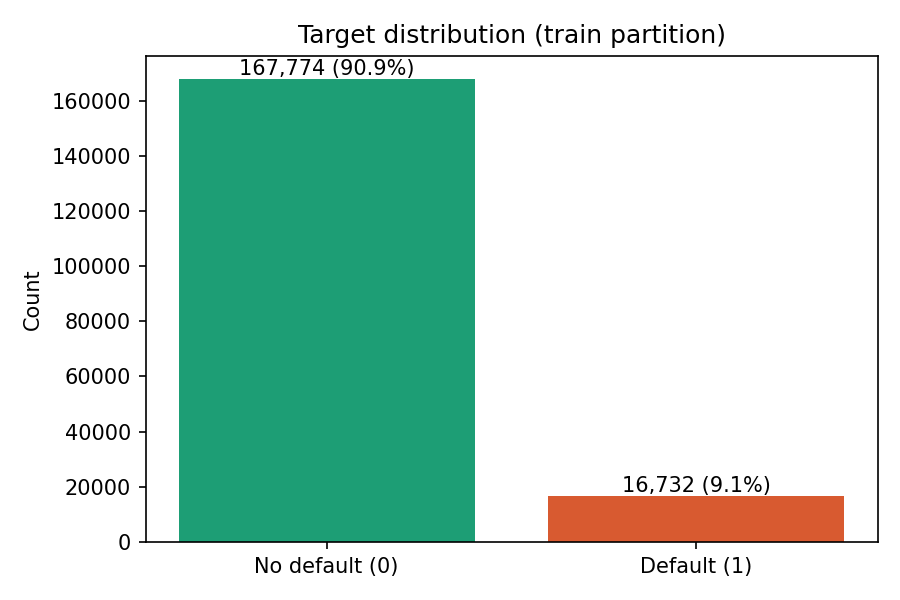
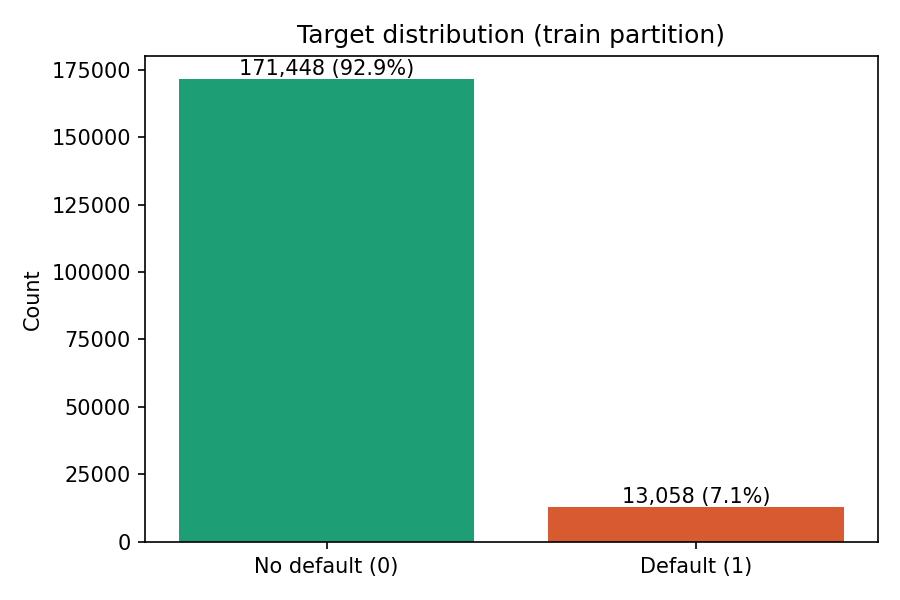
corrected new to old workflow

diff --git a/src/data_pipeline.py b/src/data_pipeline.py
@@ -1,4 +1,4 @@
-"""Module 1 â€” Data Pipeline.
+"""Module 1 — Data Pipeline.
 
 This module handles:
 - Data loading
@@ -107,7 +107,7 @@ def enforce_schema(df: pd.DataFrame, schema: dict[str, str]) -> pd.DataFrame:
 
 
 # ================================
-# TRAP D â€” MISSING POLICY FUNCTIONS
+# TRAP D — MISSING POLICY FUNCTIONS
 # ================================
 
 def fit_missing_policy(train_df: pd.DataFrame):
@@ -164,7 +164,7 @@ def apply_missing_policy(
 # ================================
 
 # ordered holdout using Home Credit recency proxies;
-# not true calendar-time validation
+# oldest rows first, newest rows last; not true calendar-time validation
 def proxy_recency_sort(app_df: pd.DataFrame) -> pd.DataFrame:
     tmp = app_df.copy()
 
@@ -177,7 +177,7 @@ def proxy_recency_sort(app_df: pd.DataFrame) -> pd.DataFrame:
 
     tmp = tmp.sort_values(
         ["__RECENCY_1", "__RECENCY_2", "SK_ID_CURR"],
-        ascending=[True, True, True]
+        ascending=[False, False, True]
     )
 
     tmp = tmp.drop(columns=["__RECENCY_1", "__RECENCY_2"])
@@ -323,7 +323,7 @@ if __name__ == "__main__":
     app_train = enforce_schema(app_train, TRAIN_SCHEMA)
 
     # ================================
-    # TRAP A â€” DAYS_EMPLOYED FIX
+    # TRAP A — DAYS_EMPLOYED FIX
     # ================================
     app_train["DAYS_EMPLOYED_ANOM"] = (
         app_train["DAYS_EMPLOYED"] == 365243
@@ -332,7 +332,7 @@ if __name__ == "__main__":
     app_train["DAYS_EMPLOYED"] = app_train["DAYS_EMPLOYED"].replace(365243, np.nan)
 
     # ================================
-    # TRAP B â€” PREV_APP FIX
+    # TRAP B — PREV_APP FIX
     # ================================
     for col in PREV_SENTINEL_DAY_COLS:
         if col in prev_app.columns:
@@ -340,20 +340,20 @@ if __name__ == "__main__":
             prev_app[col] = prev_app[col].replace(365243, np.nan)
 
     # ================================
-    # TRAP E â€” SCHEMA ASSERTION
+    # TRAP E — SCHEMA ASSERTION
     # ================================
     assert app_train["SK_ID_CURR"].dtype == np.int64, \
         "SK_ID_CURR dtype enforcement failed"
 
     # ================================
-    # STAGE 3 â€” SORT + SPLIT
+    # STAGE 3 — SORT + SPLIT
     # ================================
     app_sorted = proxy_recency_sort(app_train)
 
     train, val_model, val_policy, test = ordered_split_60_10_10_20(app_sorted)
 
     # ================================
-    # TRAP C â€” INCOME CAP
+    # TRAP C — INCOME CAP
     # ================================
     income_cap = train["AMT_INCOME_TOTAL"].quantile(0.99)
 
@@ -405,7 +405,7 @@ if __name__ == "__main__":
     assert abs(val_dist[0] - 0.5) < 0.05
     
     # ================================
-    # STAGE 4 â€” DIRECTORY SETUP
+    # STAGE 4 — DIRECTORY SETUP
     # ================================
 
     DATA_PROCESSED_DIR = os.environ.get(
@@ -495,7 +495,7 @@ if __name__ == "__main__":
     print("\nAll serialization checks passed.")
     
     # ================================
-    # STAGE 5 â€” EDA DIRECTORY
+    # STAGE 5 — EDA DIRECTORY
     # ================================
 
     EDA_PLOTS_DIR = os.environ.get(
@@ -504,7 +504,7 @@ if __name__ == "__main__":
 
     os.makedirs(EDA_PLOTS_DIR, exist_ok=True)
     
-    # Plot 1 â€” Target Distribution
+    # Plot 1 — Target Distribution
     
     fig, ax = plt.subplots(figsize=(6, 4))
     counts = train["TARGET"].value_counts().sort_index()
@@ -526,7 +526,7 @@ if __name__ == "__main__":
     plt.savefig(EDA_PLOTS_DIR + "target_distribution.png", dpi=150)
     plt.close()
     
-    # Plot 2 â€” Missing Heatmap
+    # Plot 2 — Missing Heatmap
     
     miss_rate = app_train.isna().mean().sort_values(ascending=False)
     miss_top = miss_rate[miss_rate > 0].head(40)
@@ -543,7 +543,7 @@ if __name__ == "__main__":
         cbar_kws={"label": "Missing rate"}
     )
 
-    ax.set_title("Missing value rates â€” application_train (top 40)")
+    ax.set_title("Missing value rates — application_train (top 40)")
     ax.set_xlabel("Column")
     plt.xticks(rotation=90, fontsize=7)
 
@@ -551,7 +551,7 @@ if __name__ == "__main__":
     plt.savefig(EDA_PLOTS_DIR + "missing_value_heatmap.png", dpi=150)
     plt.close()
     
-    #Plot 3 â€” Correlation
+    #Plot 3 — Correlation
     cols = ["EXT_SOURCE_1", "EXT_SOURCE_2", "EXT_SOURCE_3", "TARGET"]
     sub = train[cols].dropna()
     corr = sub.corr()
@@ -574,7 +574,7 @@ if __name__ == "__main__":
     plt.savefig(EDA_PLOTS_DIR + "ext_source_correlation.png", dpi=150)
     plt.close()
     
-    #Plot 4 â€” DAYS_EMPLOYED anomaly
+    #Plot 4 — DAYS_EMPLOYED anomaly
     fig, axes = plt.subplots(1, 2, figsize=(10, 4))
     raw_vals = app_train["DAYS_EMPLOYED"].copy()
     raw_vals_with_sentinel = raw_vals.copy()
@@ -590,7 +590,7 @@ if __name__ == "__main__":
         edgecolor="none"
     )
 
-    axes[0].set_title("DAYS_EMPLOYED â€” with sentinel (365243)")
+    axes[0].set_title("DAYS_EMPLOYED — with sentinel (365243)")
 
     axes[1].hist(
         app_train["DAYS_EMPLOYED"].dropna(),
@@ -599,7 +599,7 @@ if __name__ == "__main__":
         edgecolor="none"
     )
 
-    axes[1].set_title("DAYS_EMPLOYED â€” after Trap A fix")
+    axes[1].set_title("DAYS_EMPLOYED — after Trap A fix")
 
     for ax in axes:
         ax.set_xlabel("Value")
@@ -611,7 +611,7 @@ if __name__ == "__main__":
     plt.savefig(EDA_PLOTS_DIR + "days_employed_anomaly.png", dpi=150)
     plt.close()
     
-    #Plot 5 â€” Income Outliers
+    #Plot 5 — Income Outliers
     
     fig, axes = plt.subplots(1, 2, figsize=(10, 4))
     axes[0].hist(
@@ -621,7 +621,7 @@ if __name__ == "__main__":
         edgecolor="none"
     )
 
-    axes[0].set_title("AMT_INCOME_TOTAL â€” raw (clipped at 2M)")
+    axes[0].set_title("AMT_INCOME_TOTAL — raw (clipped at 2M)")
 
     axes[1].hist(
         train["AMT_INCOME_TOTAL_CAPPED"].dropna(),
@@ -639,7 +639,7 @@ if __name__ == "__main__":
     )
 
     axes[1].legend(fontsize=9)
-    axes[1].set_title("AMT_INCOME_TOTAL â€” after Trap C cap")
+    axes[1].set_title("AMT_INCOME_TOTAL — after Trap C cap")
 
     for ax in axes:
         ax.set_xlabel("Value")
@@ -684,4 +684,5 @@ if __name__ == "__main__":
         json.dump(report, f, indent=2)
 
     print("data_quality_report.json saved")
+
 

diff --git a/tests/test_module1_split_regime.py b/tests/test_module1_split_regime.py
@@ -1,0 +1,72 @@
+import pandas as pd
+import pytest
+
+from src.data_pipeline import ordered_split_60_10_10_20, proxy_recency_sort
+from src.runtime_verification import validate_processed_splits
+
+
+def _make_split_frame(sk_id: int, days_id_publish: float, days_registration: float) -> pd.DataFrame:
+    return pd.DataFrame(
+        {
+            "SK_ID_CURR": [sk_id],
+            "TARGET": [0],
+            "DAYS_ID_PUBLISH": [days_id_publish],
+            "DAYS_REGISTRATION": [days_registration],
+            "DAYS_EMPLOYED_ANOM": [0],
+        }
+    )
+
+
+def test_proxy_recency_sort_orders_oldest_rows_first_with_stable_tie_breaks():
+    df = pd.DataFrame(
+        {
+            "SK_ID_CURR": [30, 10, 20, 40],
+            "DAYS_ID_PUBLISH": [-100.0, -400.0, -400.0, -200.0],
+            "DAYS_REGISTRATION": [-150.0, -450.0, -300.0, -250.0],
+        }
+    )
+
+    result = proxy_recency_sort(df)
+
+    assert result["SK_ID_CURR"].tolist() == [10, 20, 40, 30]
+
+
+def test_ordered_split_and_verifier_enforce_oldest_to_newest_regime():
+    ordered = pd.concat(
+        [
+            _make_split_frame(100001, -5000.0, -6000.0),
+            _make_split_frame(100002, -4000.0, -5000.0),
+            _make_split_frame(100003, -3000.0, -4000.0),
+            _make_split_frame(100004, -2000.0, -3000.0),
+            _make_split_frame(100005, -1000.0, -2000.0),
+            _make_split_frame(100006, -500.0, -1000.0),
+            _make_split_frame(100007, -400.0, -900.0),
+            _make_split_frame(100008, -300.0, -800.0),
+            _make_split_frame(100009, -200.0, -700.0),
+            _make_split_frame(100010, -100.0, -600.0),
+        ],
+        ignore_index=True,
+    )
+
+    train, val_model, val_policy, test = ordered_split_60_10_10_20(ordered)
+    verification = validate_processed_splits(
+        {
+            "train": train,
+            "val_model": val_model,
+            "val_policy": val_policy,
+            "test": test,
+        }
+    )
+
+    assert verification["split_summary"]["train"]["mean_abs_days_id_publish"] >= verification["split_summary"]["val_model"]["mean_abs_days_id_publish"]
+    assert verification["split_summary"]["val_model"]["mean_abs_days_id_publish"] >= verification["split_summary"]["val_policy"]["mean_abs_days_id_publish"]
+    assert verification["split_summary"]["val_policy"]["mean_abs_days_id_publish"] >= verification["split_summary"]["test"]["mean_abs_days_id_publish"]
+
+    wrong_order = {
+        "train": test,
+        "val_model": val_policy,
+        "val_policy": val_model,
+        "test": train,
+    }
+    with pytest.raises(ValueError, match="Proxy-time split ordering violated"):
+        validate_processed_splits(wrong_order)

diff --git a/src/runtime_verification.py b/src/runtime_verification.py
@@ -1,4 +1,4 @@
-"""Shared verification and lineage helpers for runtime artifacts."""
+"""Shared verification and lineage helpers for runtime artifacts."""
 
 from __future__ import annotations
 
@@ -178,15 +178,23 @@ def validate_processed_splits(splits: Mapping[str, pd.DataFrame]) -> dict[str, A
         raise ValueError("Processed splits do not share an identical schema")
 
     for left, right in zip(EXPECTED_PROCESSED_SPLITS, EXPECTED_PROCESSED_SPLITS[1:]):
-        left_recency = pd.to_numeric(splits[left]["DAYS_ID_PUBLISH"], errors="coerce").abs().dropna()
-        right_recency = pd.to_numeric(splits[right]["DAYS_ID_PUBLISH"], errors="coerce").abs().dropna()
-        if left_recency.empty or right_recency.empty:
-            continue
-        if float(left_recency.max()) > float(right_recency.min()):
-            raise ValueError(
-                "Proxy-time split ordering violated between "
-                f"{left} and {right} on DAYS_ID_PUBLISH"
-            )
+        left_publish = pd.to_numeric(splits[left]["DAYS_ID_PUBLISH"], errors="coerce").abs().dropna()
+        right_publish = pd.to_numeric(splits[right]["DAYS_ID_PUBLISH"], errors="coerce").abs().dropna()
+        if not left_publish.empty and not right_publish.empty:
+            if float(left_publish.min()) < float(right_publish.max()):
+                raise ValueError(
+                    "Proxy-time split ordering violated between "
+                    f"{left} and {right} on DAYS_ID_PUBLISH"
+                )
+
+        left_registration = pd.to_numeric(splits[left]["DAYS_REGISTRATION"], errors="coerce").abs().dropna()
+        right_registration = pd.to_numeric(splits[right]["DAYS_REGISTRATION"], errors="coerce").abs().dropna()
+        if not left_registration.empty and not right_registration.empty:
+            if float(left_registration.mean()) < float(right_registration.mean()):
+                raise ValueError(
+                    "Proxy-time split ordering violated between "
+                    f"{left} and {right} on DAYS_REGISTRATION mean"
+                )
 
     return {
         "duplicate_summary": duplicate_summary,
@@ -314,3 +322,5 @@ def validate_builder_artifact(
             )
 
     return {"warnings": warnings}
+
+

diff --git a/handoff/INTEGRATION-NOTES-module1.md b/handoff/INTEGRATION-NOTES-module1.md
@@ -3,7 +3,7 @@
 ### What this module does
 Loads 7 raw Home Credit CSVs, enforces an allowlist, applies 6
 data traps (sentinel removal, schema enforcement, income capping),
-sorts by proxy recency, splits 60/10/10/20, and serializes 5
+sorts by proxy staleness (oldest to newest), splits 60/10/10/20, and serializes 5
 DataFrames plus a scalar income_cap to disk.
 
 ### What it expects from other modules
@@ -32,3 +32,4 @@ from src.data_pipeline import (
    train.pkl — do not recreate them in Module 2.
 5. application_test.csv rows are in adv_train/adv_val only.
    They must never enter any scoring feature matrix.
+
